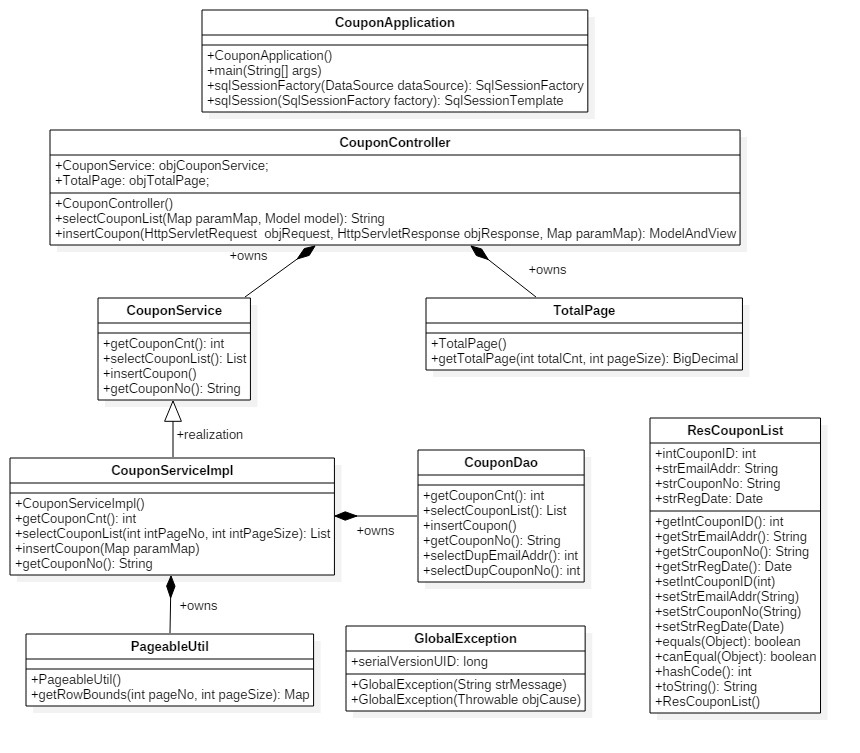
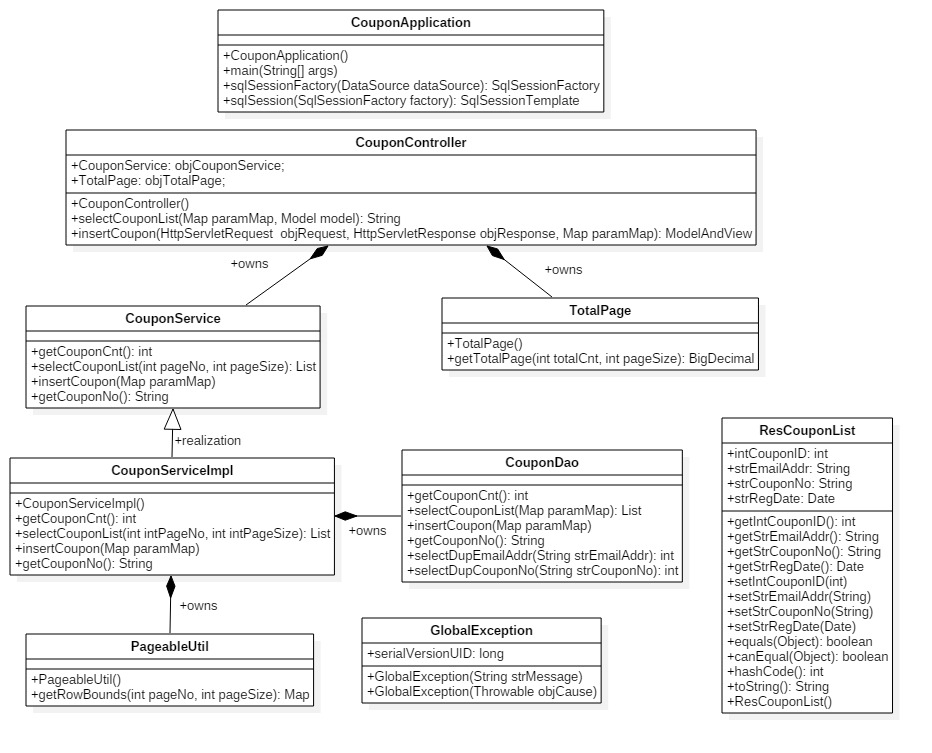
테스트

diff --git a/demo/src/main/java/com/coupon/controller/CouponController.java b/demo/src/main/java/com/coupon/controller/CouponController.java
@@ -29,41 +29,57 @@ public class CouponController {
     private TotalPage objTotalPage;
     
     //1. 쿠폰 리스트 조회
-    @RequestMapping(value = "/coupon/list", method = RequestMethod.GET)
-    public String selectCouponList(@RequestParam Map<String, Object> paramMap, Model model) {
-        
+    @RequestMapping(value = "/coupon/list", method = RequestMethod.POST)
+    @ResponseBody
+    public ModelAndView selectCouponList(@RequestParam Map<String, Object> paramMap) {
+    	
         int    intPageNo   = 1;
         int    intPageSize = 10;
         int    intTotalCnt = 0;
+        int    intResult   = 0;
+        String strErrMsg   = "";
+        
         String strPageNo   = (String) paramMap.get("pageNo");
         String strPageSize = (String) paramMap.get("pageSize");
 
+        //JSON 응답 객체
+        ModelAndView  objMV = new ModelAndView(new MappingJackson2JsonView());
+
         try 
         {
-            if(strPageNo != null && !strPageNo.equals("")){
-                intPageNo = Integer.parseInt(strPageNo);
+            if(strPageNo != null && !strPageNo.isEmpty()){
+                intPageNo = Integer.parseInt(paramMap.get("pageNo").toString());
             }
-            if(strPageSize != null && !strPageSize.equals("")){
-                intPageSize = Integer.parseInt(strPageSize);
+            if(strPageSize != null && !strPageSize.isEmpty()){
+                intPageSize = Integer.parseInt(paramMap.get("pageSize").toString());
             }
 
             intTotalCnt = objCouponService.getCouponCnt();
 
+            //페이지 설정
+            objMV.setViewName("couponList");
             //현재 페이지
-            model.addAttribute("pageNo", intPageNo);
-            //전체 개수
-            model.addAttribute("totalCnt", intTotalCnt);
+            objMV.addObject("pageNo", intPageNo);
+            //페이지 사이즈
+            objMV.addObject("pageSize", intPageSize); 
             //전체 페이지
-            model.addAttribute("totalPage", objTotalPage.getTotalPage(intTotalCnt, intPageSize));
+            objMV.addObject("totalPage", objTotalPage.getTotalPage(intTotalCnt, intPageSize));
             //쿠폰 리스트 호출
-            model.addAttribute("couponList", objCouponService.selectCouponList(intPageNo, intPageSize));
+            objMV.addObject("couponList", objCouponService.selectCouponList(intPageNo, intPageSize));
+            
         }
         catch (Exception objEx) 
         { 
-            objEx.printStackTrace();
+            intResult = 9999;
+            strErrMsg = objEx.getMessage();
+        }
+        finally
+        {
+            objMV.addObject("code",    intResult);
+            objMV.addObject("message", strErrMsg);
         }
 
-        return "couponList";
+        return objMV;
         
     }
 
@@ -75,9 +91,8 @@ public class CouponController {
                                     ,@RequestBody Map<String, Object> paramMap) {
         
         int    intResult    = 0;
-        String strErrMsg    = "쿠폰생성에 성공하였습니다.";
-        String strEmailAddr = null;
-        String strCouponNo  = null;
+        String strErrMsg    = "";
+        String strEmailAddr = "";        
         
         //JSON 응답 객체
         ModelAndView  objMV = new ModelAndView(new MappingJackson2JsonView());
@@ -86,13 +101,18 @@ public class CouponController {
         {         
             //이메일 정보 설정
             strEmailAddr = paramMap.get("strEmailAddr").toString();
-            //쿠폰 번호 생성
-            strCouponNo = objCouponService.getCouponNo();
-            strCouponNo = strCouponNo.substring(0, 4) + "-" + strCouponNo.substring(4, 8) + "-" + strCouponNo.substring(8, 12) + "-" + strCouponNo.substring(12, 16);
             
-            //입력받은 이메일과 생성한 쿠폰 정보 추가
+            //이메일 공백 체크
+            if(strEmailAddr == null || strEmailAddr.isEmpty()) {
+            	intResult = 1001;
+            	strErrMsg = "이메일 값이 존재하지 않습니다.";
+            }
+            else {
+            	strErrMsg = "쿠폰생성에 성공하였습니다.";
+            }
+            
+            //입력받은 이메일 추가
             paramMap.put("strEmailAddr", strEmailAddr);
-            paramMap.put("strCouponNo",  strCouponNo);
             
             objCouponService.insertCoupon(paramMap);
         } 

diff --git a/demo/src/main/java/com/coupon/service/CouponServiceImpl.java b/demo/src/main/java/com/coupon/service/CouponServiceImpl.java
@@ -43,12 +43,25 @@ public class CouponServiceImpl implements CouponService {
     @Override
     public void insertCoupon(Map<String, Object> paramMap) throws Exception {
         
+    	String strCouponNo  = "";
+    	
+    	//쿠폰 번호 생성
+        strCouponNo = objCouponDao.getCouponNo();
+        
+        //쿠폰 번호 공백 체크
+        if(strCouponNo == null || strCouponNo.isEmpty()) {
+            throw new GlobalException("쿠폰 생성 오류가 발생했습니다. 다시 시도해주세요.");
+        }
+        
+        //쿠폰 번호 '-' 문자 연결
+        strCouponNo = strCouponNo.substring(0, 4) + "-" + strCouponNo.substring(4, 8) + "-" + strCouponNo.substring(8, 12) + "-" + strCouponNo.substring(12, 16);
+
         //이메일 중복 체크
         if(objCouponDao.selectDupEmailAddr(paramMap.get("strEmailAddr").toString()) > 0){
             throw new GlobalException("중복된 이메일 주소입니다.");
         }
         //쿠폰 중복 체크
-        if(objCouponDao.selectDupCouponNo(paramMap.get("strCouponNo").toString()) > 0){
+        if(objCouponDao.selectDupCouponNo(strCouponNo) > 0){
             throw new GlobalException("중복된 쿠폰이 생성되었습니다. 다시 시도해주세요.");
         }
         
